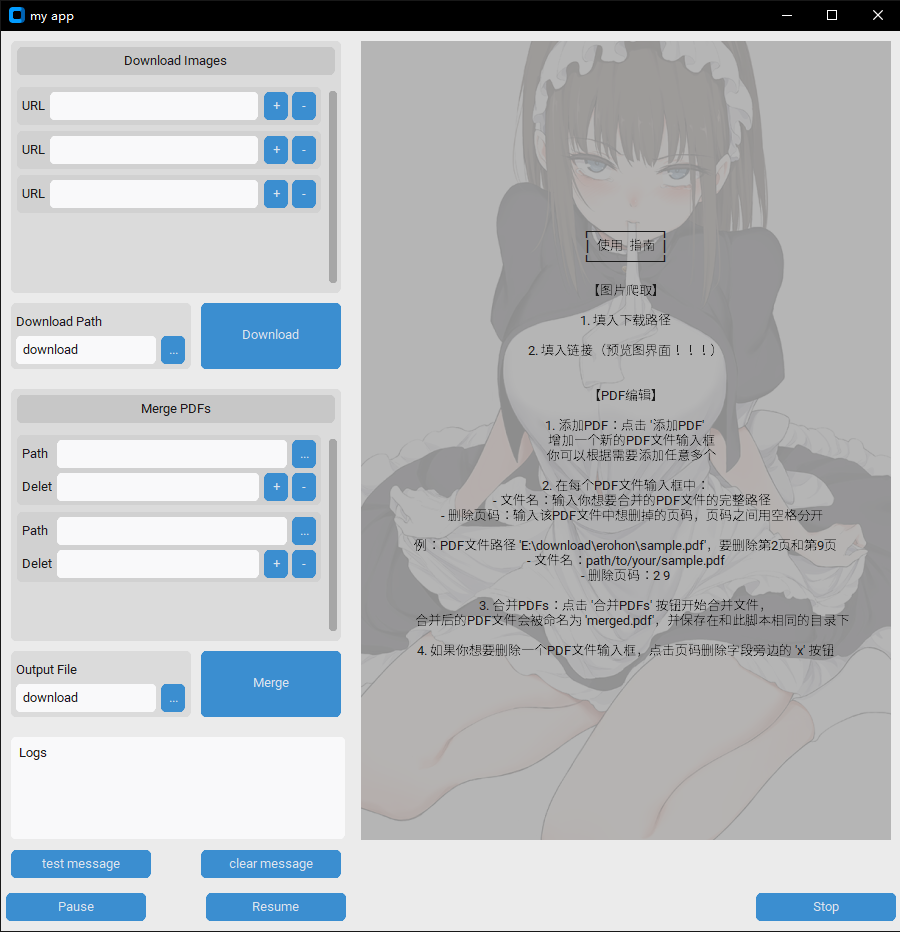
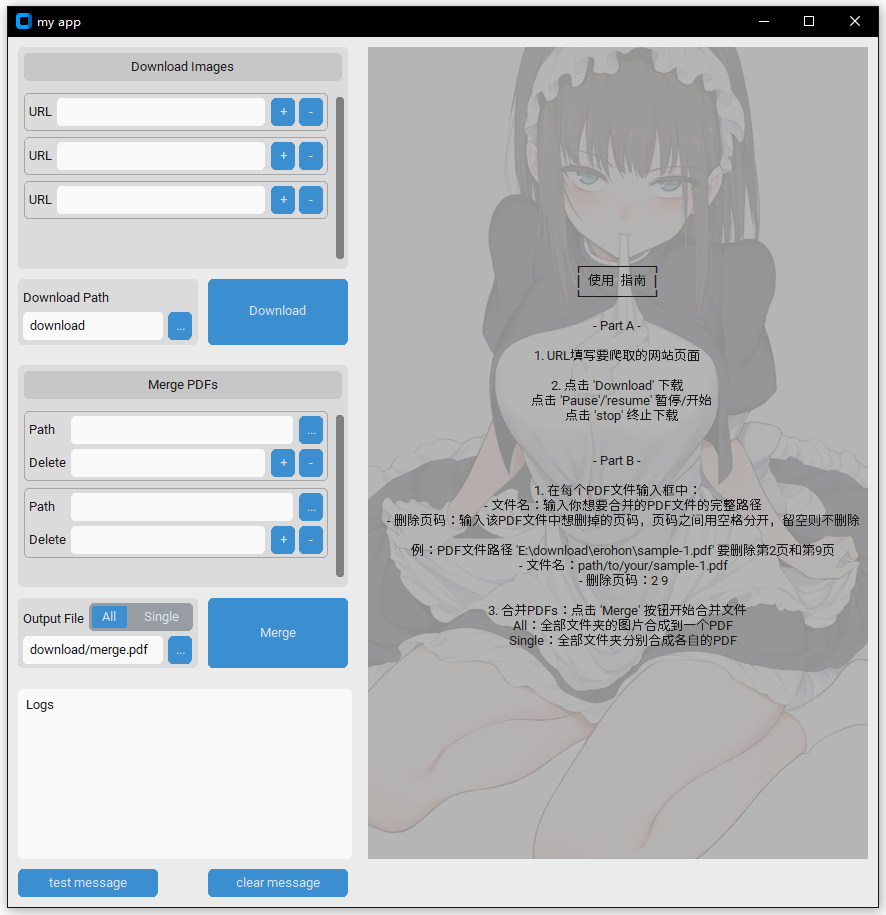
小改动

Changed region(s): [[0.0, 0.0, 1.0, 1.0], [0.8228, 0.2142, 0.8837, 0.3366], [0.5485, 0.153, 0.6095, 0.2448]]

diff --git a/app.py b/app.py
@@ -1,8 +1,8 @@
 import customtkinter
 import threading
 from PIL import Image, ImageTk
-from pdf_editior import PDFMerger
-from pic_collector import BasicCrawler
+from src.pdf_merge import PDFMerger
+from src.pic_collector import BasicCrawler
 import sys
 import time
 import os
@@ -253,7 +253,7 @@ class App(customtkinter.CTk):
         customtkinter.set_appearance_mode("system")  # dark light system
 
         self.title("my app")
-        self.geometry("900x1000")
+        self.geometry("870x870")
 
         self.grid_columnconfigure(2, weight=1)
         self.grid_rowconfigure((0, 2, 4), weight=1)
@@ -416,6 +416,29 @@ tips = r'''
 ┏━━━━━┓
 ┃ 使用  指南 ┃
 ┗━━━━━┛
+
+- Part A -
+
+1. URL填写要爬取的网站页面
+
+2. 点击 'Download' 下载
+   点击 'Pause'/'resume' 暂停/开始
+   点击 'stop' 终止下载
+
+
+- Part B -
+
+1. 在每个PDF文件输入框中：
+    - 文件名：输入你想要合并的PDF文件的完整路径
+    - 删除页码：输入该PDF文件中想删掉的页码，页码之间用空格分开，留空则不删除
+
+    例：PDF文件路径 'E:\download\erohon\sample-1.pdf' 要删除第2页和第9页
+    - 文件名：path/to/your/sample-1.pdf
+    - 删除页码：2 9
+
+3. 合并PDFs：点击 'Merge' 按钮开始合并文件
+    All：全部文件夹的图片合成到一个PDF
+    Single：全部文件夹分别合成各自的PDF
 '''
 
 app = App()
